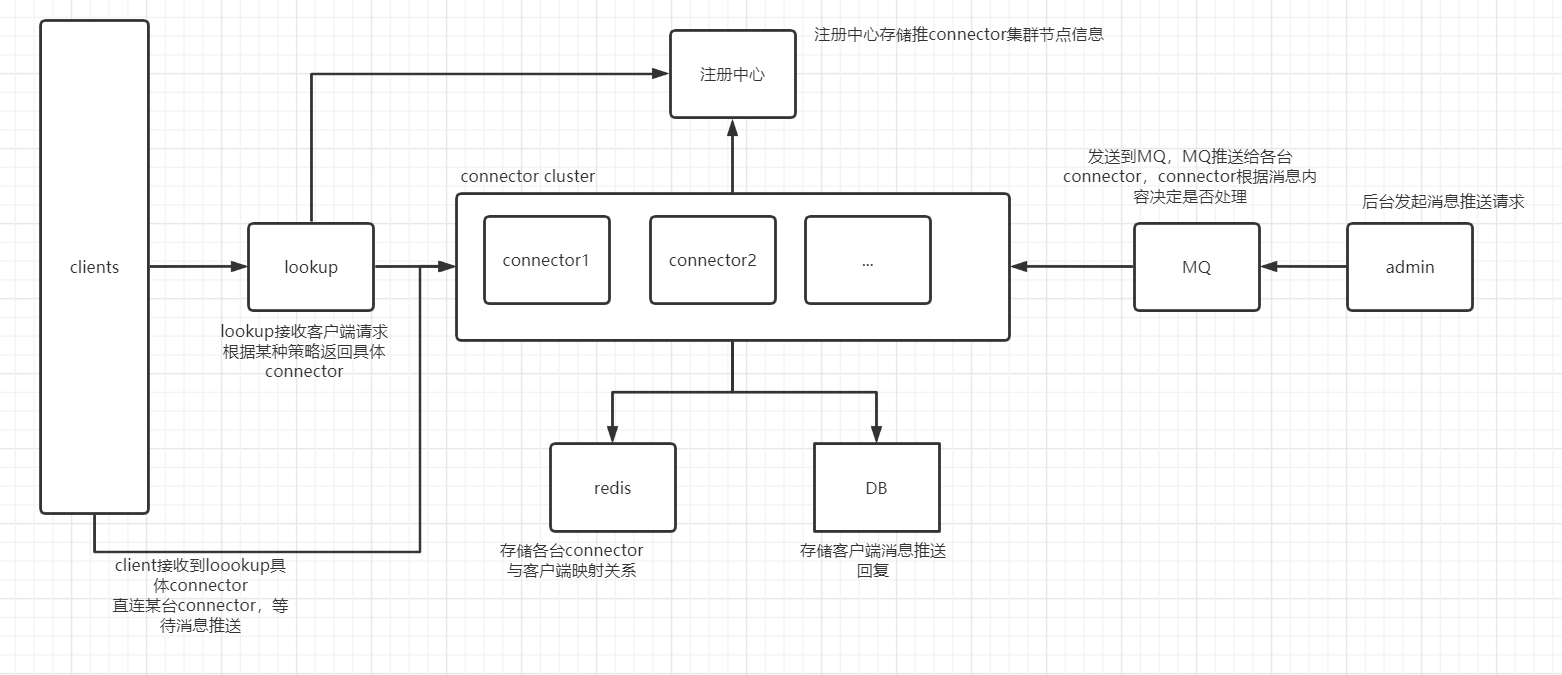
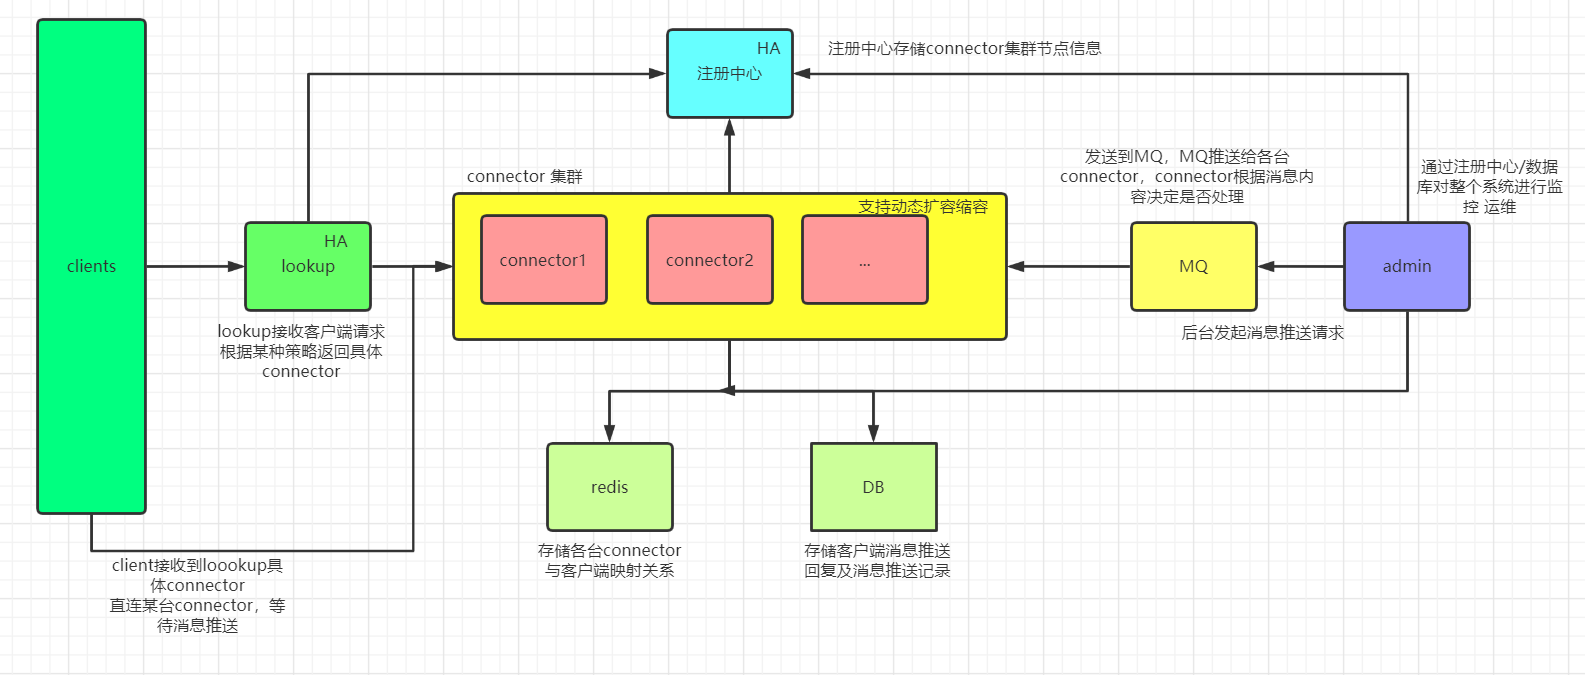
更新一些说明

diff --git a/README.md b/README.md
@@ -3,3 +3,35 @@
 - 分布式消息推送系统
 
 ![](./architecture.png)
+
+## 已支持的功能
+
+admin：
+
+- 消息推送
+- 消息推送记录
+
+connector：
+
+- 推送消息
+    - 单用户
+    - 广播
+- 推送记录
+- 推送确认
+
+lookup:
+
+- connector负载均衡
+
+## 待办
+
+监控：
+
+- lookup调度日志
+- connector监控
+    - 健康监控
+    - 在线用户
+
+运维：
+
+- connector扩容缩容
